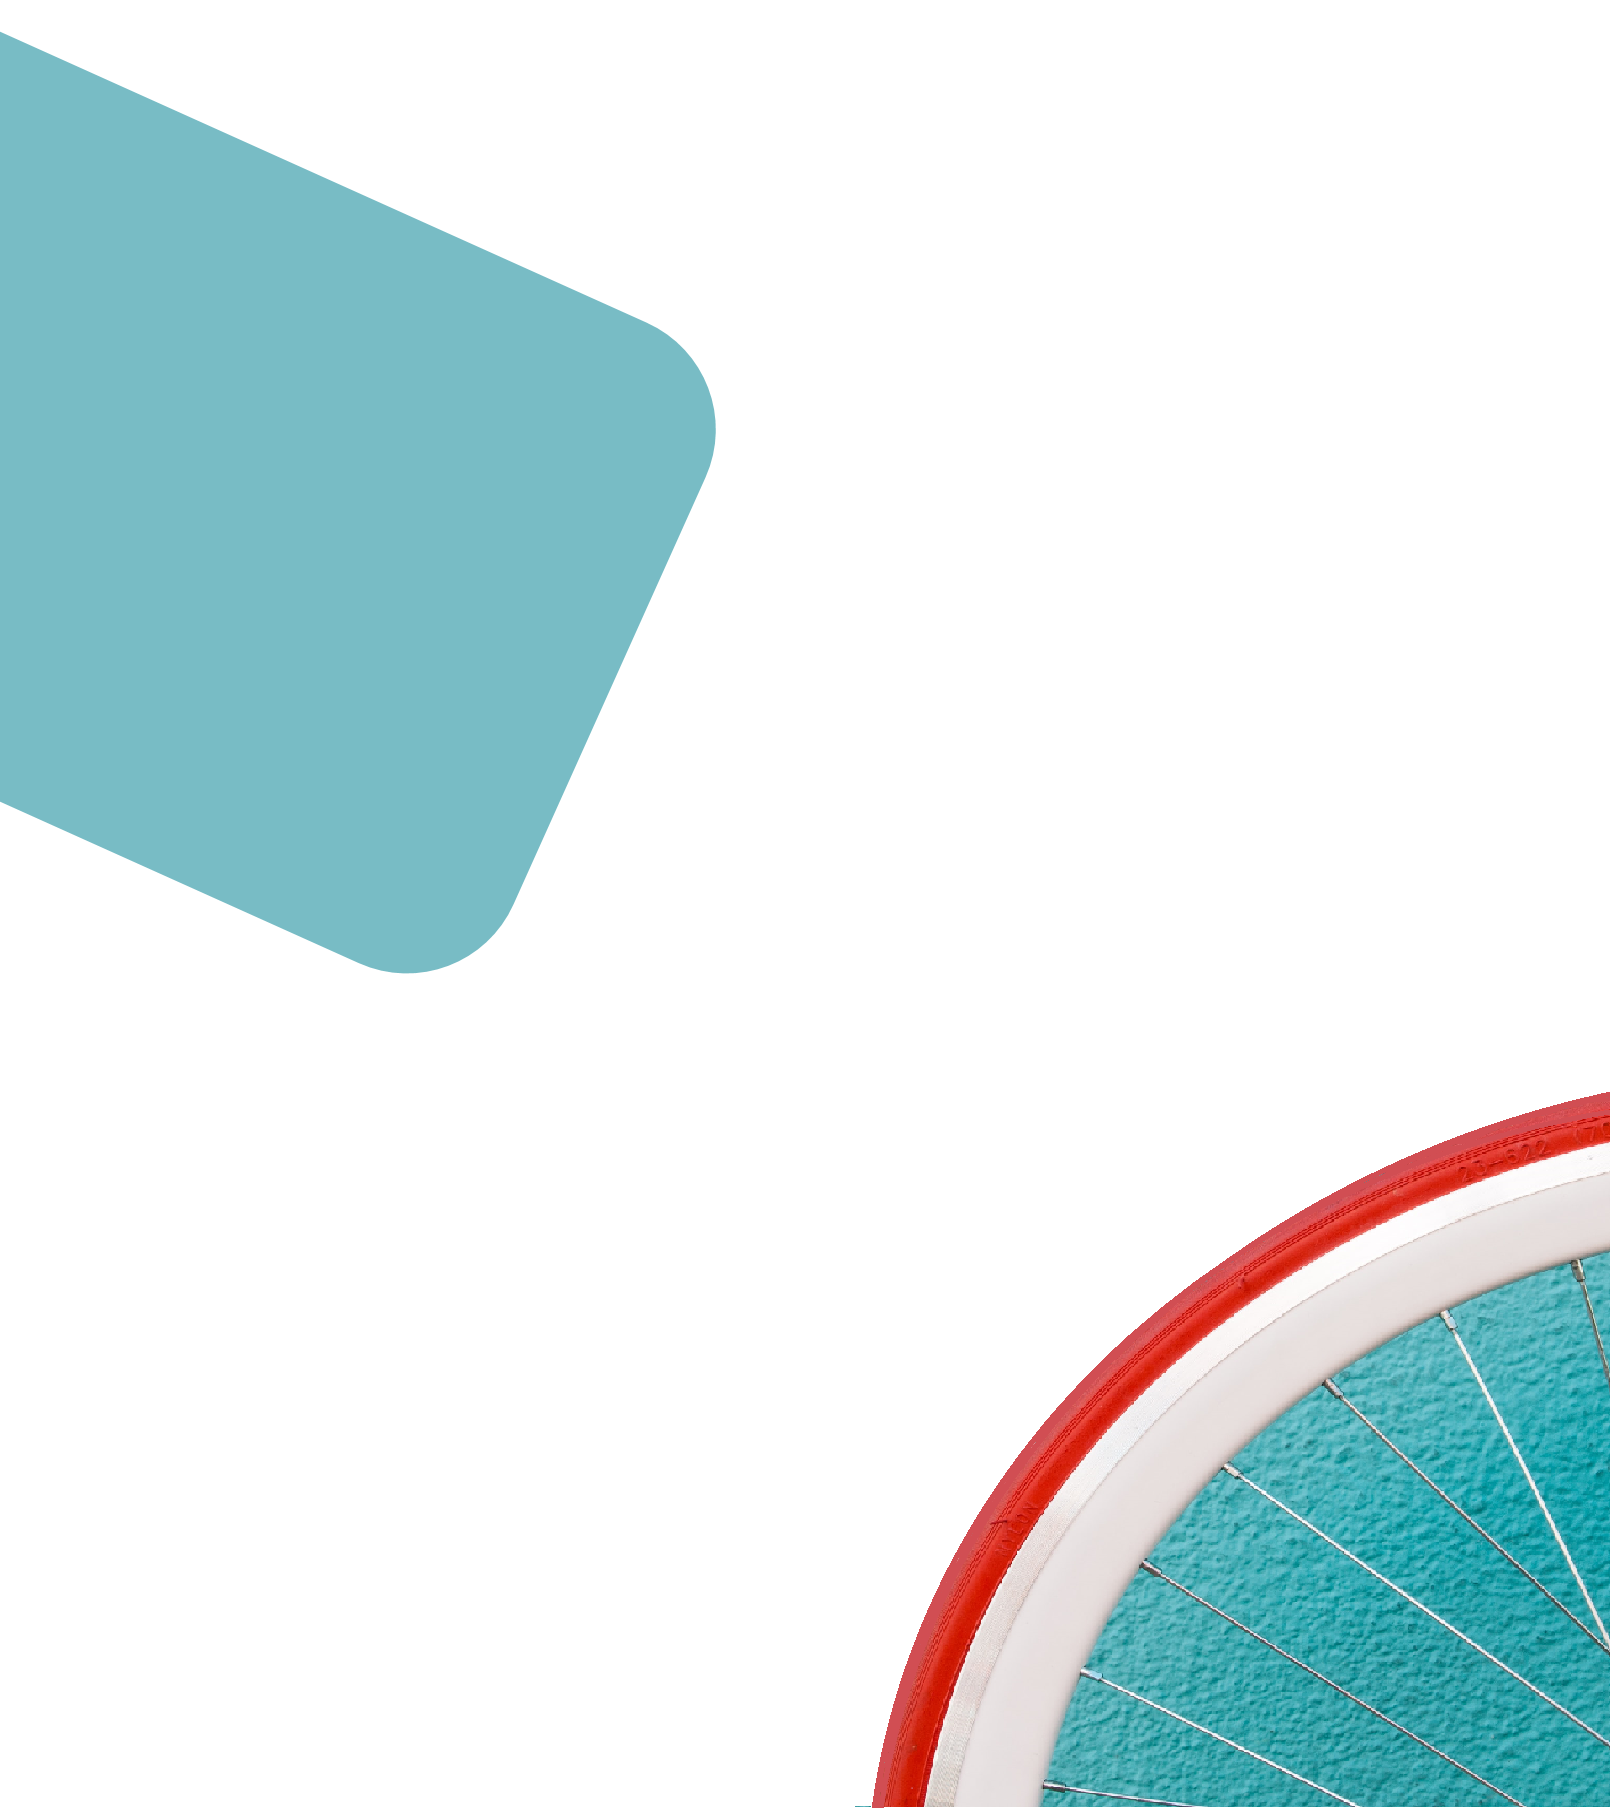
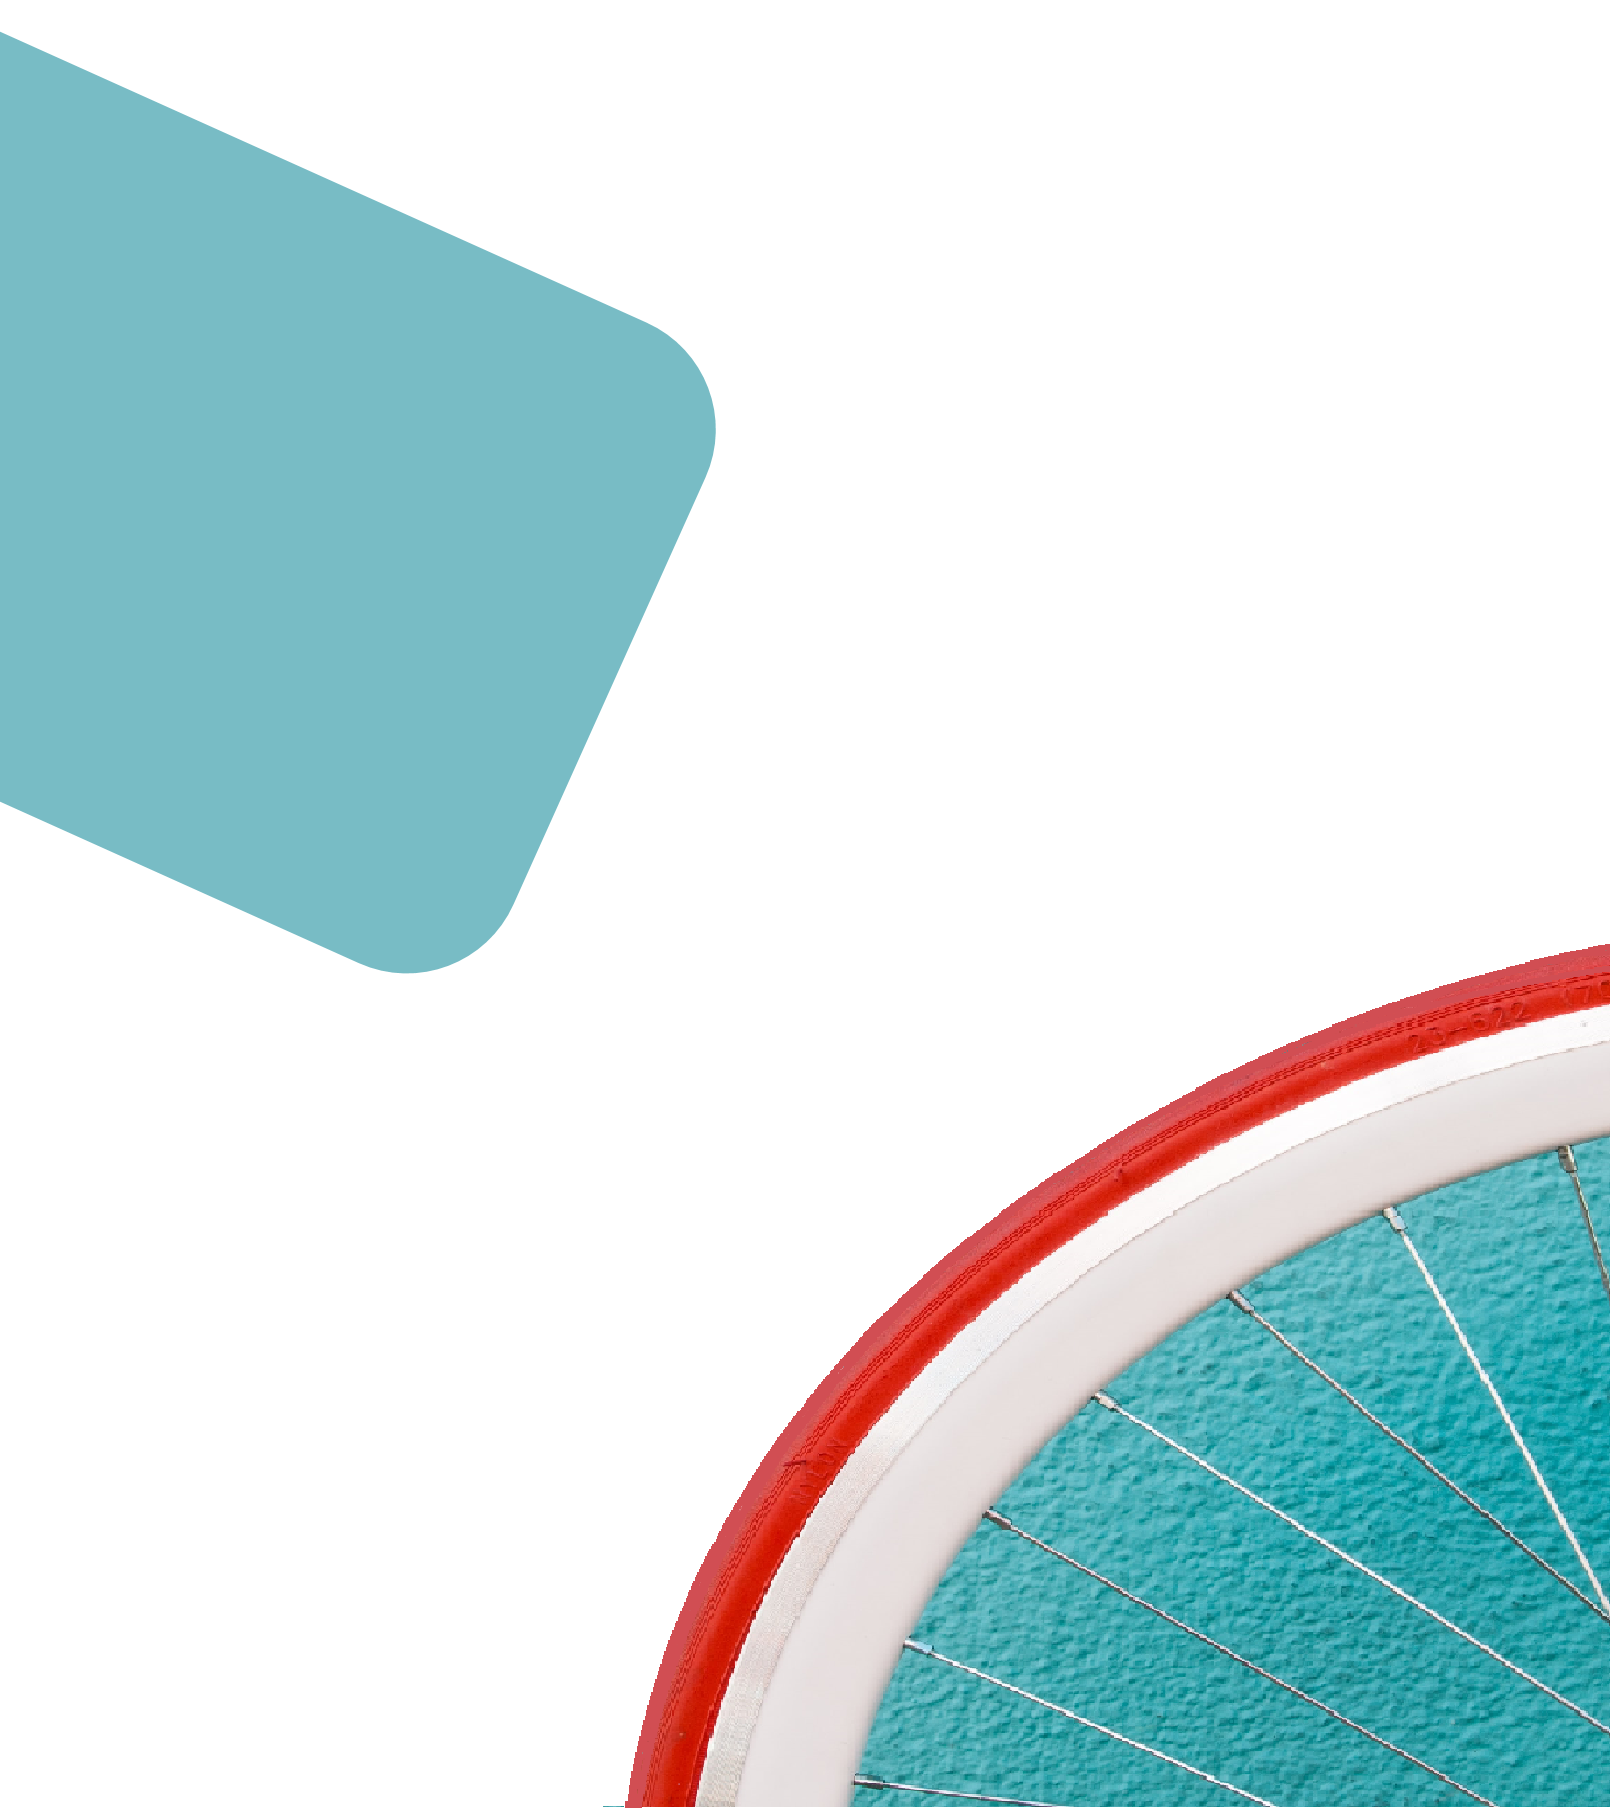
Right paned background update

Changed region(s): [[0.3727, 0.4956, 1.0, 1.0]]

diff --git a/client/src/assets/css/style.css b/client/src/assets/css/style.css
@@ -13,11 +13,14 @@ body {
     width: 63%;
 }
 
-#searchPanel, #searchPanelPark {
+#searchPanel,
+#searchPanelPark {
     border-radius: 15px;
 }
 
-#right-panel, #rightPanelPark, #rightPanelRate {
+#right-panel,
+#rightPanelPark,
+#rightPanelRate {
     position: absolute;
     top: 64px;
     left: 63%;
@@ -26,13 +29,12 @@ body {
     padding: 8px;
     border-radius: 15px;
     /* background-image: url("../homepage.png"); */
-    background-image: url("../profile.png"); 
+    background-image: url("../right-panel.png");
     background-repeat: no-repeat;
     background-attachment: fixed;
-    background-position: 90% 100%;
+    background-position: 100% 100%;
     /* background-size: auto; */
-    background-size: 30%;
-
+    background-size: 40%;
 }
 
 .routeForm {
@@ -61,11 +63,13 @@ label {
     background-color: white;
 }
 
+
 /* 
 select {
     max-height: 40px;
     min-height: 90px;
 } */
+
 
 /* 
 .browser-default {
@@ -164,11 +168,13 @@ thead:first-child tr:first-child th:first-child {
     border-radius: 5px 5px 0 0;
 }
 
-#locationColumn, #locationColumnRate {
+#locationColumn,
+#locationColumnRate {
     border-radius: 5px 0 0 0;
 }
 
-#bikesColumn, #bikesColumnRate {
+#bikesColumn,
+#bikesColumnRate {
     border-radius: 0 5px 0 0;
 }
 
@@ -210,10 +216,11 @@ button {
     line-height: 100%;
 }
 
+
 /* START FIND BIKE PAGE STYLING */
 
-
-.sideBarButton, .sideBarButtonClose {
+.sideBarButton,
+.sideBarButtonClose {
     background-color: #78bcc5ff;
     width: 5rem;
     border-radius: 25px;
@@ -221,18 +228,22 @@ button {
     /* line-height: 20px; */
 }
 
-.sideBarButton:hover, .sideBarButtonClose:hover {
+.sideBarButton:hover,
+.sideBarButtonClose:hover {
     background-color: #00bfa5;
 }
 
-.sideBarButton:active, .sideBarButtonClose:active {
+.sideBarButton:active,
+.sideBarButtonClose:active {
     background-color: #00bfa5;
     box-shadow: 0 2px #666;
     transform: translateY(4px);
 }
 
-.sideBarButton:focus, .sideBarButtonClose:focus {
+.sideBarButton:focus,
+.sideBarButtonClose:focus {
     background-color: #78bcc5ff;
 }
+
 
 /* END OF FIND BIKE PAGE STYLING */
